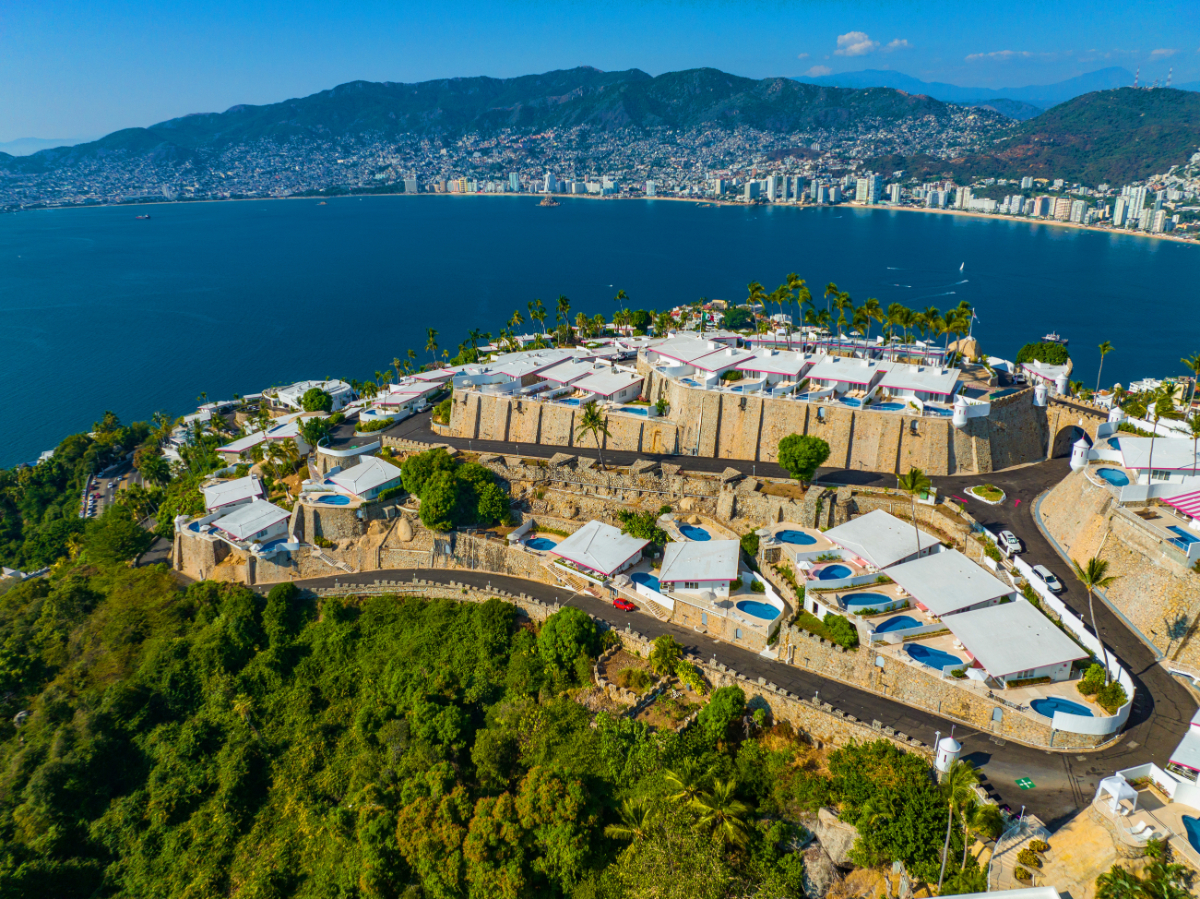
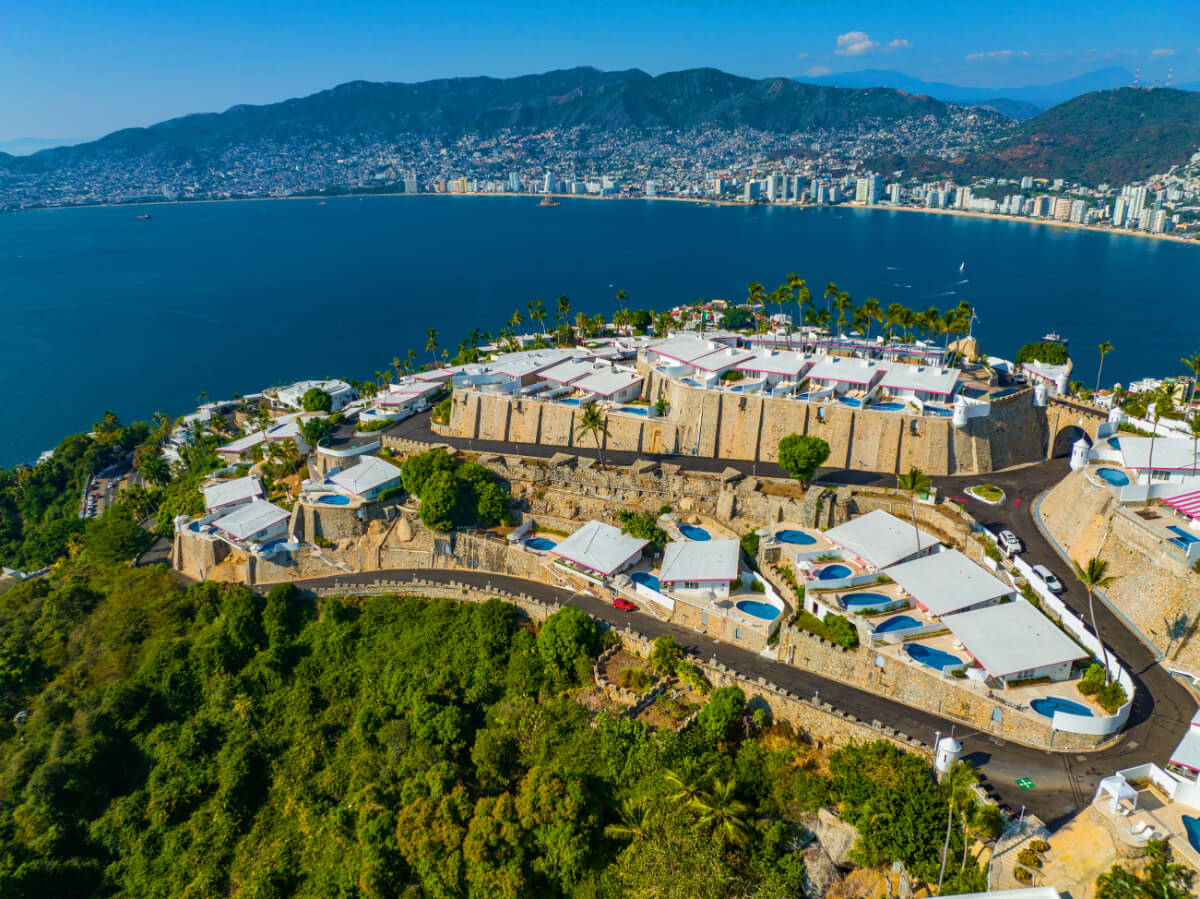
hotel santa fe

diff --git a/_destarchives/ptoescondido.html b/_destarchives/ptoescondido.html
@@ -52,6 +52,13 @@ position: photo-center
     </a>  
 </div>
 
+<div class="col-3_sm-4_xs-6 padded-1">
+    <a href="/hotels/santafe">
+        <div class="bg-image square" style="background-image:url('/images/hotels/santafe/santafe4.jpg')"></div>
+        <h3 class='center'>Hotel Santa Fe/h3>        
+    </a>  
+</div>
+
 <div class='map-container center margin-1'>
 
 <iframe src="https://www.google.com/maps/embed?pb=!1m18!1m12!1m3!1d30701.206659103816!2d-97.09763798050034!3d15.874938604821303!2m3!1f0!2f0!3f0!3m2!1i1024!2i768!4f13.1!3m3!1m2!1s0x85b8f7e977d3b93f%3A0x9184e1896f93a0a4!2sPuerto%20Escondido%2C%20Oax.%2C%20M%C3%A9xico!5e0!3m2!1ses!2ses!4v1739389761742!5m2!1ses!2ses" width="600" height="450" style="border:0;" allowfullscreen="" loading="lazy" referrerpolicy="no-referrer-when-downgrade"></iframe>

diff --git a/_hotelposts/santafe.md b/_hotelposts/santafe.md
@@ -1,0 +1,45 @@
+---
+layout: hotel-layout
+title: Hotel Santa Fe
+location: Puerto Escondido
+featured: false
+categories:
+  - Puerto-Escondido
+header_image: /images/hotels/santafe/santafe4.jpg
+position: photo-center
+---
+
+## Hotel Santa Fe Puerto Escondido &nbsp;
+
+### Introduction
+Set along the shores of Zicatela Beach, Hotel Santa Fe Puerto Escondido is a charming beachfront retreat that captures the relaxed spirit and cultural richness of Oaxaca’s Pacific coast. Combining traditional Mexican architecture with tropical gardens, inviting swimming pools, and warm hospitality, the hotel offers a laid-back escape surrounded by lush greenery and the sound of the ocean. Its distinctive style, featuring regional materials and handcrafted details, creates an authentic sense of place, making it an appealing choice for travellers looking to experience the natural beauty and cultural character of Puerto Escondido.
+
+![](/images/hotels/santafe/santafe1.jpg)
+
+### Location
+Located on Avenida del Morro in the Zicatela area of Puerto Escondido, Hotel Santa Fe sits directly opposite Zicatela Beach, one of Mexico’s best-known surfing destinations. Famous for its powerful waves, expansive shoreline, and vibrant surf culture, the beach offers a spectacular Pacific setting. Nearby, Puerto Escondido’s different neighbourhoods reveal a more relaxed side of coastal Mexico, with seafood restaurants, cafés, local markets, and laid-back beach communities. The hotel also provides a convenient base for discovering the region’s quieter beaches, coastal landscapes, and the traditions of Oaxaca.
+
+![](/images/hotels/santafe/santafe2.jpg)
+
+### What to Do
+Spend leisurely days beside the hotel’s swimming pools, surrounded by tropical vegetation, or head across to Zicatela Beach to watch surfers and admire the Pacific sunsets. Explore Puerto Escondido’s different beach neighbourhoods, browse local shops, and discover the cafés and restaurants that give the destination its relaxed character. Nature lovers can arrange excursions to explore the surrounding coastline, lagoons, and local wildlife, while those interested in regional culture can discover the culinary traditions and artisan heritage of Oaxaca. In the evening, return to the hotel for a relaxed meal beneath the traditional palapa roof or enjoy a drink amid the tropical surroundings.
+
+![](/images/hotels/santafe/santafe3.jpg)
+
+### Why We Recommend This Hotel
+A beachfront setting – Located directly opposite Zicatela Beach, the hotel offers easy access to the Pacific shoreline, surf culture, and spectacular sunsets. &nbsp;  
+&nbsp;  
+Authentic Mexican character – Traditional architecture, regional materials, and decorative details create a distinctive atmosphere rooted in the character of coastal Oaxaca. &nbsp;  
+&nbsp;  
+Tropical surroundings – Lush gardens and inviting swimming pools provide a peaceful retreat between beach outings and local adventures. &nbsp;  
+&nbsp;  
+A taste of Oaxaca – The hotel’s restaurant celebrates Mexican and regional flavours, offering guests an opportunity to discover the culinary traditions of Oaxaca. &nbsp;  
+&nbsp;  
+A relaxed coastal atmosphere – The combination of tropical gardens, traditional design, and easy beach access makes the hotel well suited to travellers seeking a laid-back seaside escape. &nbsp;  
+&nbsp;  
+A base for exploration – Its location makes it easy to discover Puerto Escondido’s beaches, local food scene, and surrounding natural landscapes. &nbsp;  
+
+### Dining Options
+Hotel Santa Fe Restaurant serves Mexican and regional cuisine in a traditional palapa setting, where tropical surroundings contribute to the relaxed dining atmosphere. Guests can discover flavours inspired by Oaxaca alongside dishes that celebrate the region’s fresh ingredients and coastal culinary traditions. The restaurant provides an inviting setting for breakfast, lunch, or dinner, while the poolside area offers a more casual place to unwind with refreshments. Beyond the hotel, Puerto Escondido’s dining scene features fresh seafood, traditional Oaxacan specialities, and relaxed beachfront restaurants, offering plenty of opportunities to explore the region’s distinctive flavours.
+
+<iframe src="https://www.google.com/maps/embed?pb=!1m18!1m12!1m3!1d3837.970138058335!2d-97.06156418887146!3d15.858166744989404!2m3!1f0!2f0!3f0!3m2!1i1024!2i768!4f13.1!3m3!1m2!1s0x85b8f787b4ecd1b1%3A0x257b49b52a94da34!2sHotel%20Santa%20Fe%2C%20Zicatela!5e0!3m2!1sen!2sde!4v1792598477359!5m2!1sen!2sde" width="800" height="600" style="border:0;" allowfullscreen="" loading="lazy" referrerpolicy="strict-origin-when-cross-origin"></iframe>

diff --git a/_hotelposts/lasbrisasaca.md b/_hotelposts/lasbrisasaca.md
@@ -44,4 +44,4 @@ A secluded romantic escape – With private outdoor spaces, tropical gardens, an
 Dining at Las Brisas Acapulco combines memorable views with a variety of culinary experiences. Bellavista Restaurant offers an elegant setting for enjoying a meal overlooking the bay, while Bellavista Bar provides a relaxed atmosphere for drinks and socialising. At La Concha Restaurant, guests can enjoy a seaside dining experience at the hotel's exclusive beach club, surrounded by the beauty of the Pacific coast. Sunset Bar offers another inviting setting for cocktails and evening relaxation. For a more private experience, guests can also enjoy meals on the terrace of their own casita, where the panoramic views and tranquil surroundings make dining an especially memorable part of the stay.
 
 
-<iframe src="https://www.google.com/maps/embed?pb=!1m18!1m12!1m3!1d7638.166265363835!2d-99.86974685635671!3d16.822231455636835!2m3!1f0!2f0!3f0!3m2!1i1024!2i768!4f13.1!3m3!1m2!1s0x85ca585148004217%3A0x2312df463b66437b!2sLas%20Brisas%2C%20Acapulco%2C%20Guerrero%2C%20Mexico!5e0!3m2!1sen!2sde!4v1792596819906!5m2!1sen!2sde" width="600" height="450" style="border:0;" allowfullscreen="" loading="lazy" referrerpolicy="strict-origin-when-cross-origin"></iframe>
+<iframe src="https://www.google.com/maps/embed?pb=!1m18!1m12!1m3!1d7638.166265363835!2d-99.86974685635671!3d16.822231455636835!2m3!1f0!2f0!3f0!3m2!1i1024!2i768!4f13.1!3m3!1m2!1s0x85ca585148004217%3A0x2312df463b66437b!2sLas%20Brisas%2C%20Acapulco%2C%20Guerrero%2C%20Mexico!5e0!3m2!1sen!2sde!4v1792596819906!5m2!1sen!2sde" width="800" height="600" style="border:0;" allowfullscreen="" loading="lazy" referrerpolicy="strict-origin-when-cross-origin"></iframe>

diff --git a/_destposts/ptoescondido.md b/_destposts/ptoescondido.md
@@ -52,6 +52,13 @@ Puerto Escondido’s laid-back vibe and stunning natural surroundings make it an
     </a>  
 </div>
 
+<div class="col-3_sm-4_xs-6 padded-1">
+    <a href="/hotels/santafe">
+        <div class="bg-image square" style="background-image:url('/images/hotels/santafe/santafe4.jpg')"></div>
+        <h3 class='center'>Hotel Santa Fe/h3>        
+    </a>  
+</div>
+
 <div class='map-container center margin-1'>
 
 <iframe src="https://www.google.com/maps/embed?pb=!1m18!1m12!1m3!1d30701.206659103816!2d-97.09763798050034!3d15.874938604821303!2m3!1f0!2f0!3f0!3m2!1i1024!2i768!4f13.1!3m3!1m2!1s0x85b8f7e977d3b93f%3A0x9184e1896f93a0a4!2sPuerto%20Escondido%2C%20Oax.%2C%20M%C3%A9xico!5e0!3m2!1ses!2ses!4v1739389761742!5m2!1ses!2ses" width="600" height="450" style="border:0;" allowfullscreen="" loading="lazy" referrerpolicy="no-referrer-when-downgrade"></iframe>
